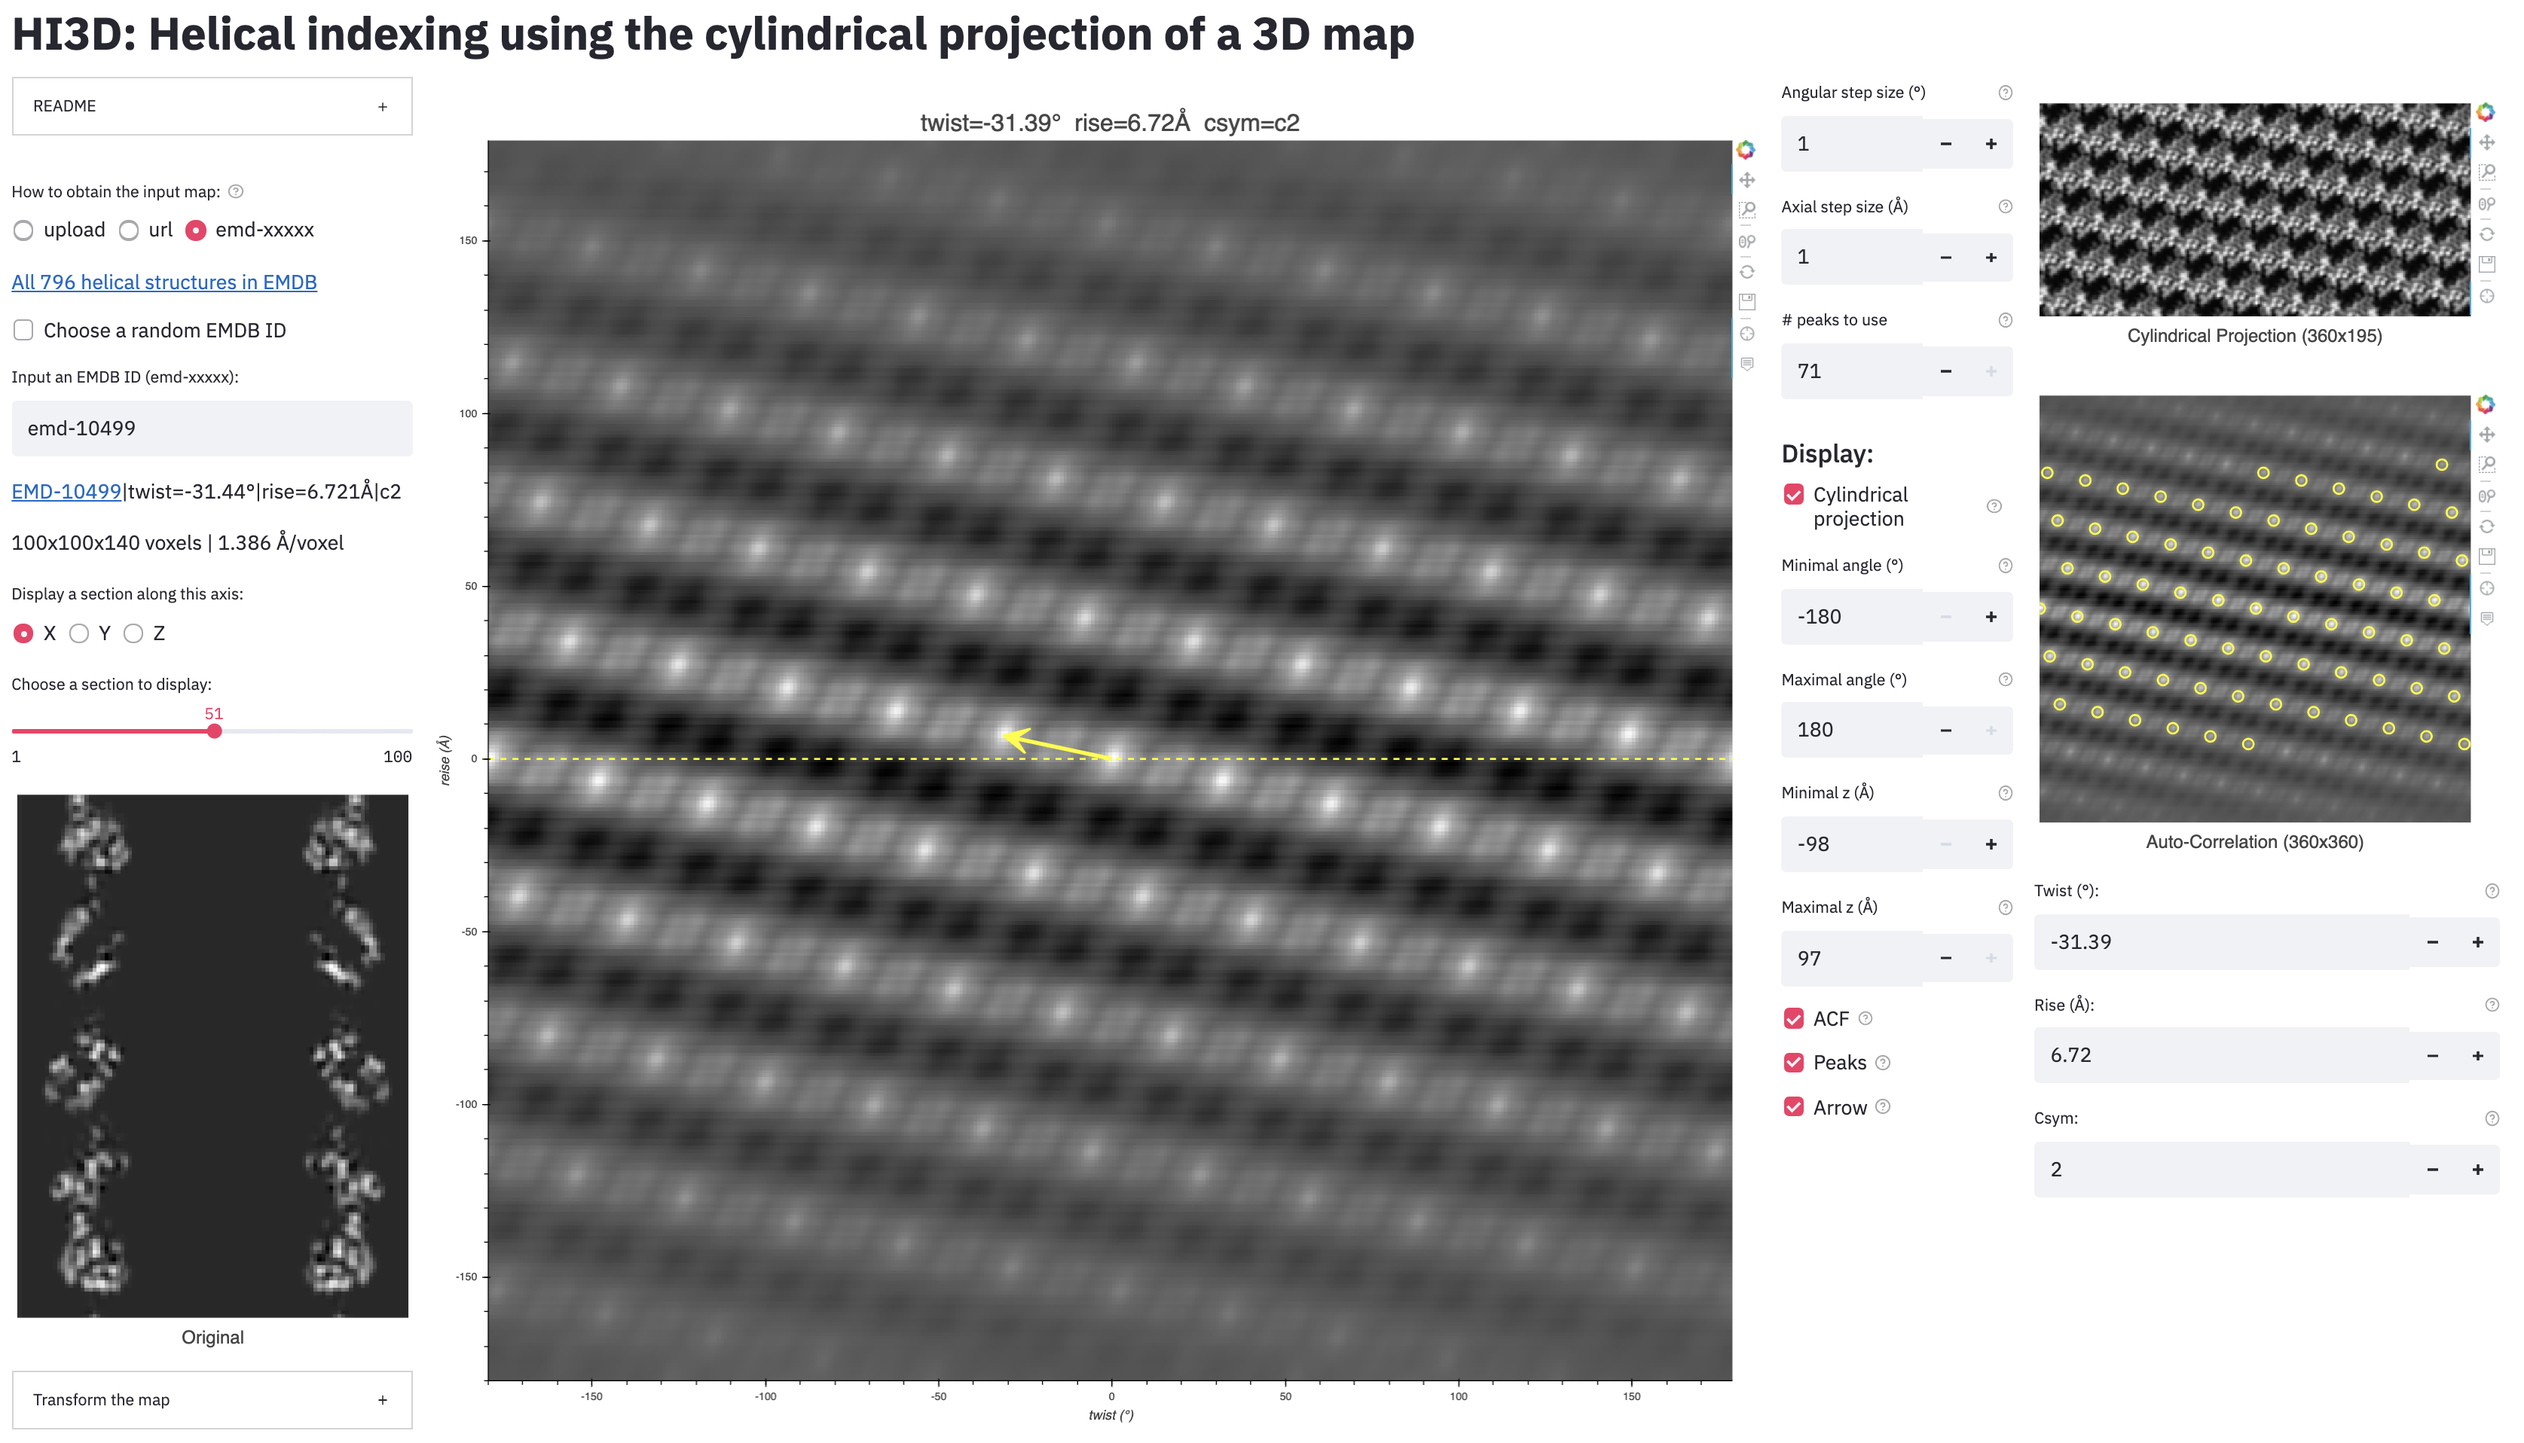
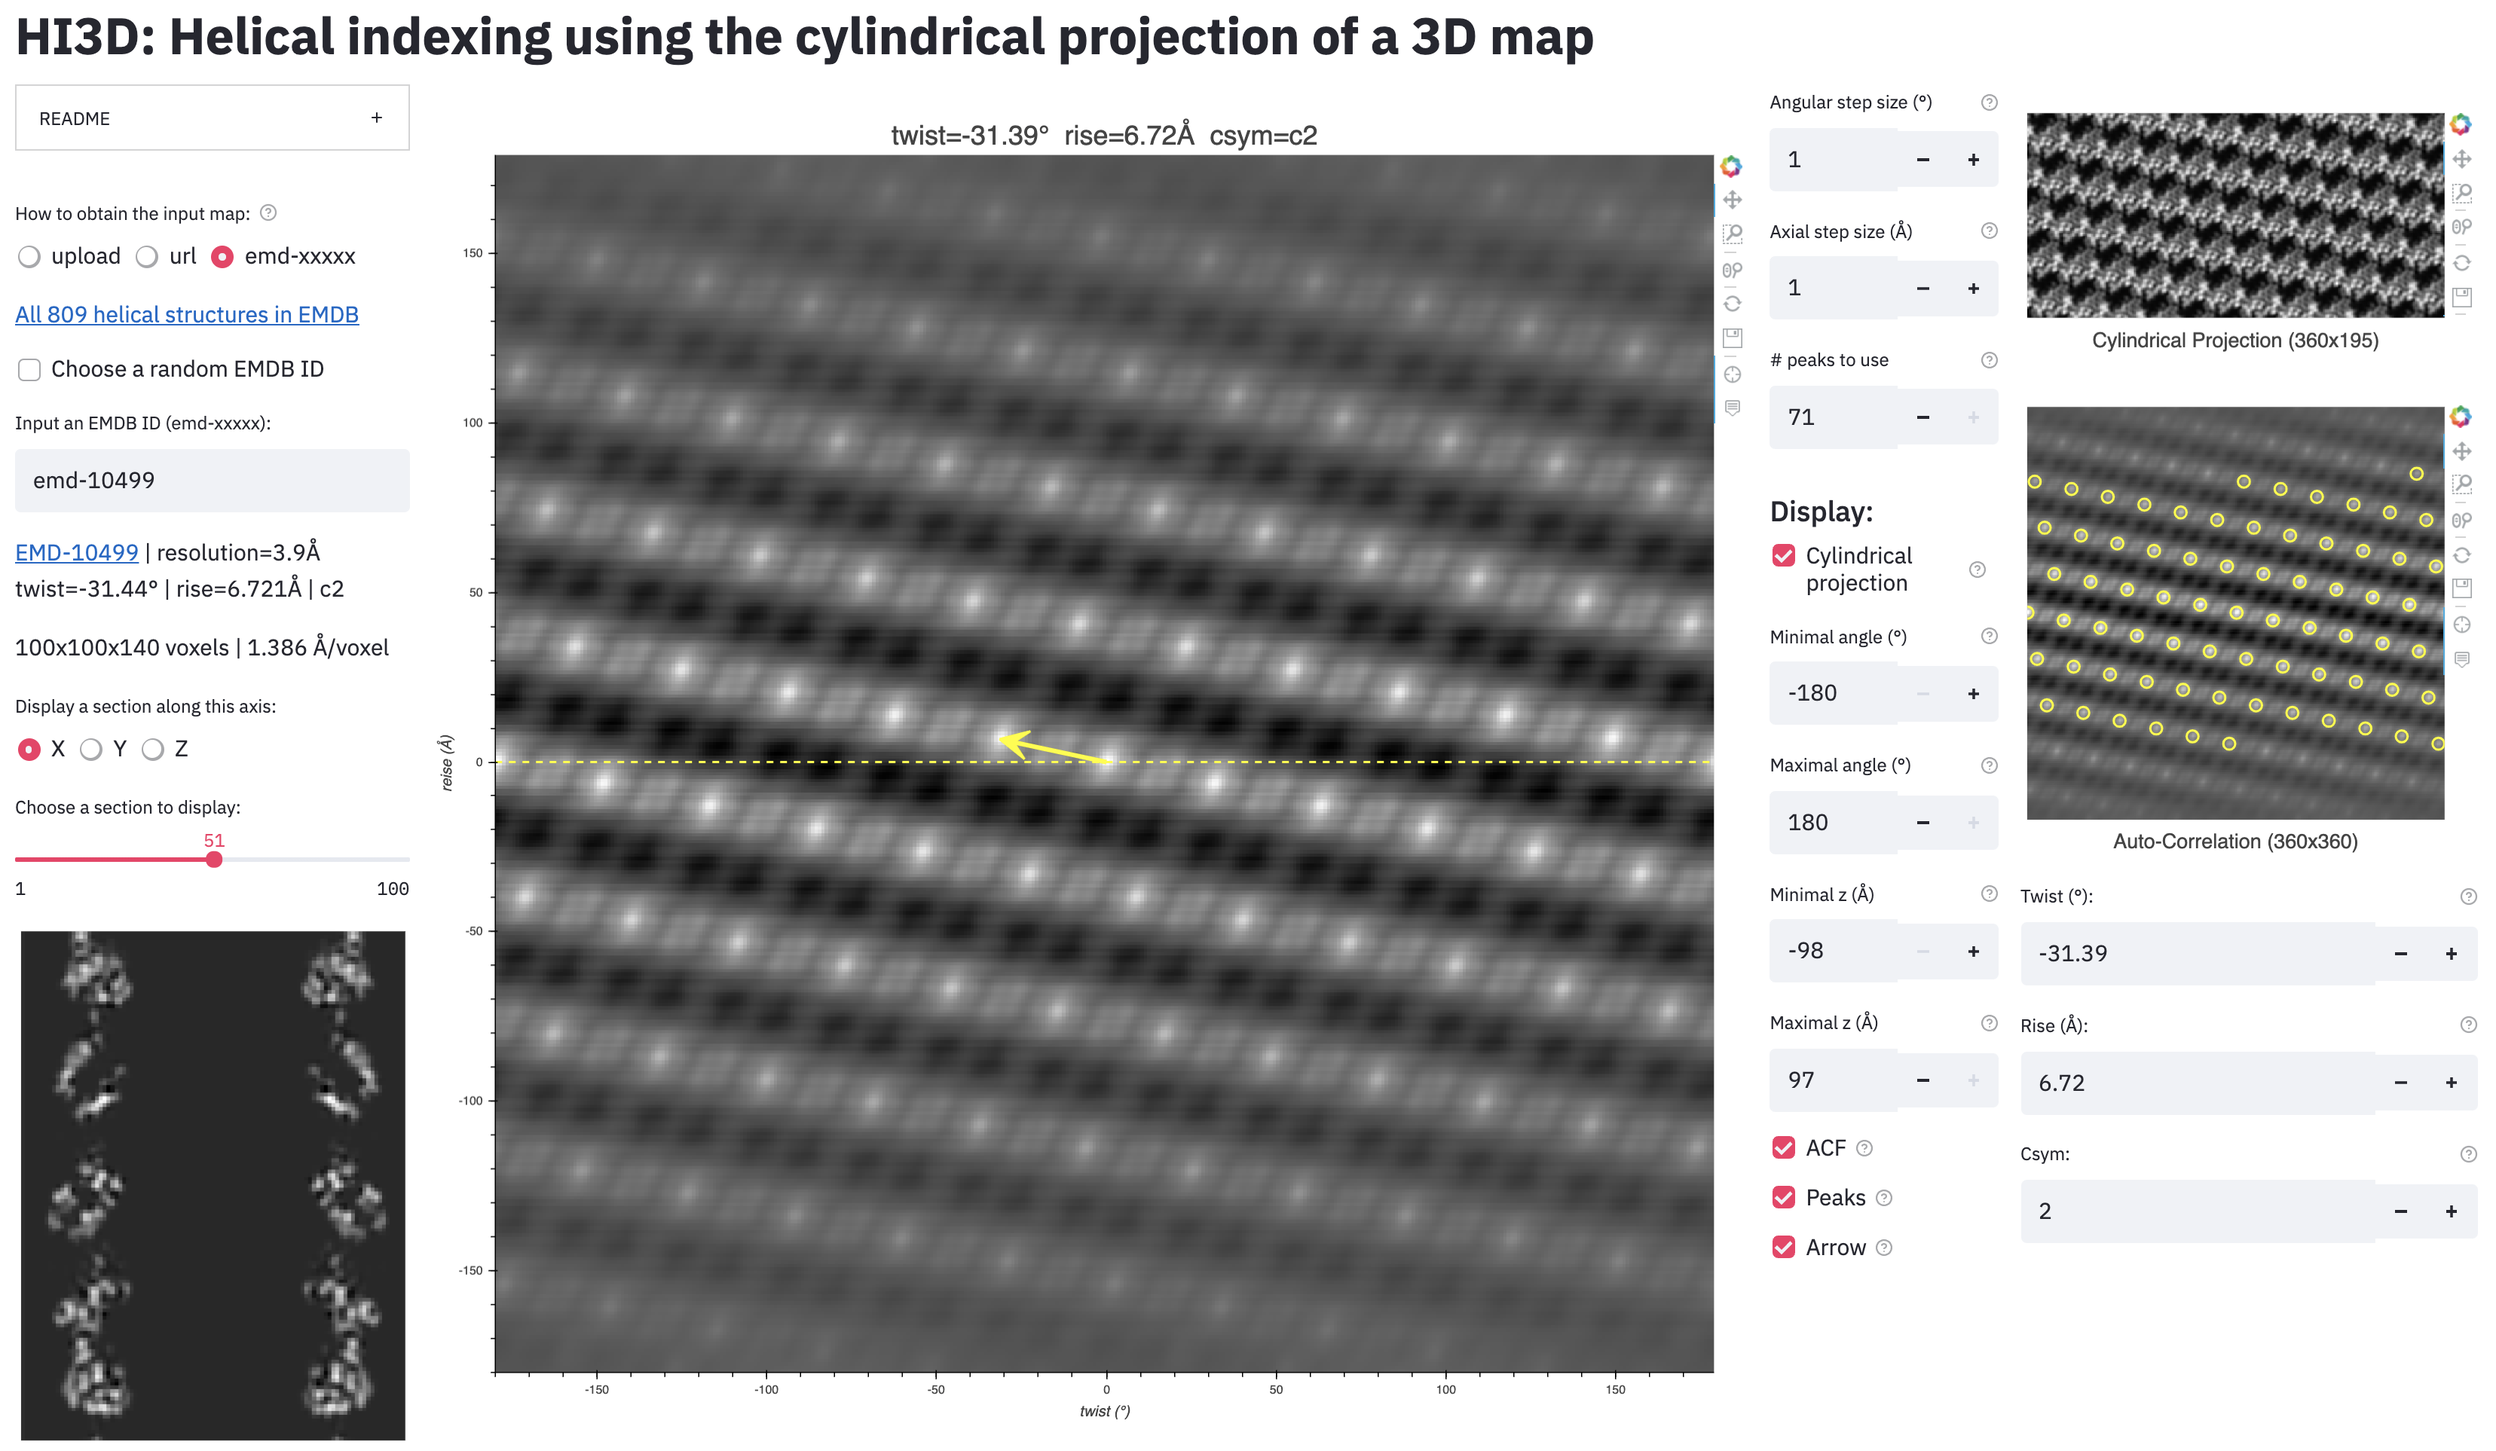
display EMDB map resolution

diff --git a/hi3d.py b/hi3d.py
@@ -111,16 +111,19 @@ def main():
                     st.warning(f"EMD-{emd_id_bad} is not a helical structure. Please input a valid id (for example, a randomly selected valid id 'emd-{emd_id}')")
                     return
             emd_id = st.session_state.emd_id.lower().split("emd-")[-1]
+            msg = f'[EMD-{emd_id}](https://www.ebi.ac.uk/emdb/entry/EMD-{emd_id})'
+            params = get_emdb_helical_parameters(emd_id)
+            if params:
+                msg += f" | resolution={params['resolution']}Å"
+                msg += f"  \ntwist={params['twist']}° | rise={params['rise']}Å | c{params['csym']}"
+            else:
+                msg += " | *helical params not available*"
+            st.markdown(msg)
             with st.spinner(f'Downloading EMD-{emd_id}'):
                 data, apix = get_emdb_map(emd_id)
             if data is None:
                 st.warning(f"Failed to download [EMD-{emd_id}](https://www.ebi.ac.uk/emdb/entry/EMD-{emd_id})")
                 return
-            msg = f'[EMD-{emd_id}](https://www.ebi.ac.uk/emdb/entry/EMD-{emd_id})'
-            params = get_helical_parameters(emd_id)
-            if params:
-                msg += f"|twist={params['twist']}°|rise={params['rise']}Å|c{params['csym']}"
-            st.markdown(msg)
             is_emd = True
 
         if data is None:
@@ -1043,7 +1046,7 @@ def get_emdb_ids():
     return emdb_ids
 
 @st.cache(persist=True, show_spinner=False)
-def get_helical_parameters(emd_id):
+def get_emdb_helical_parameters(emd_id):
   try:
     emd_id2 = ''.join([s for s in str(emd_id) if s.isdigit()])
     url = f"https://ftp.ebi.ac.uk/pub/databases/emdb/structures/EMD-{emd_id2}/header/emd-{emd_id2}.xml"
@@ -1053,10 +1056,13 @@ def get_helical_parameters(emd_id):
     import xmltodict
     data = xmltodict.parse(xml_data)
     helical_parameters = data['emdEntry']['experiment']['specimenPreparation']['helicalParameters']
+    assert(helical_parameters['deltaPhi']['@units'] == 'degrees')
+    assert(helical_parameters['deltaZ']['@units'] == 'A')
     ret = {}
     ret["twist"] = float(helical_parameters['deltaPhi']['#text'])
     ret["rise"] = float(helical_parameters['deltaZ']['#text'])
     ret["csym"] = int(helical_parameters['axialSymmetry'][1:])
+    ret["resolution"] = float(data['emdEntry']['processing']['reconstruction']['resolutionByAuthor'])
   except:
     ret = None
   return ret
